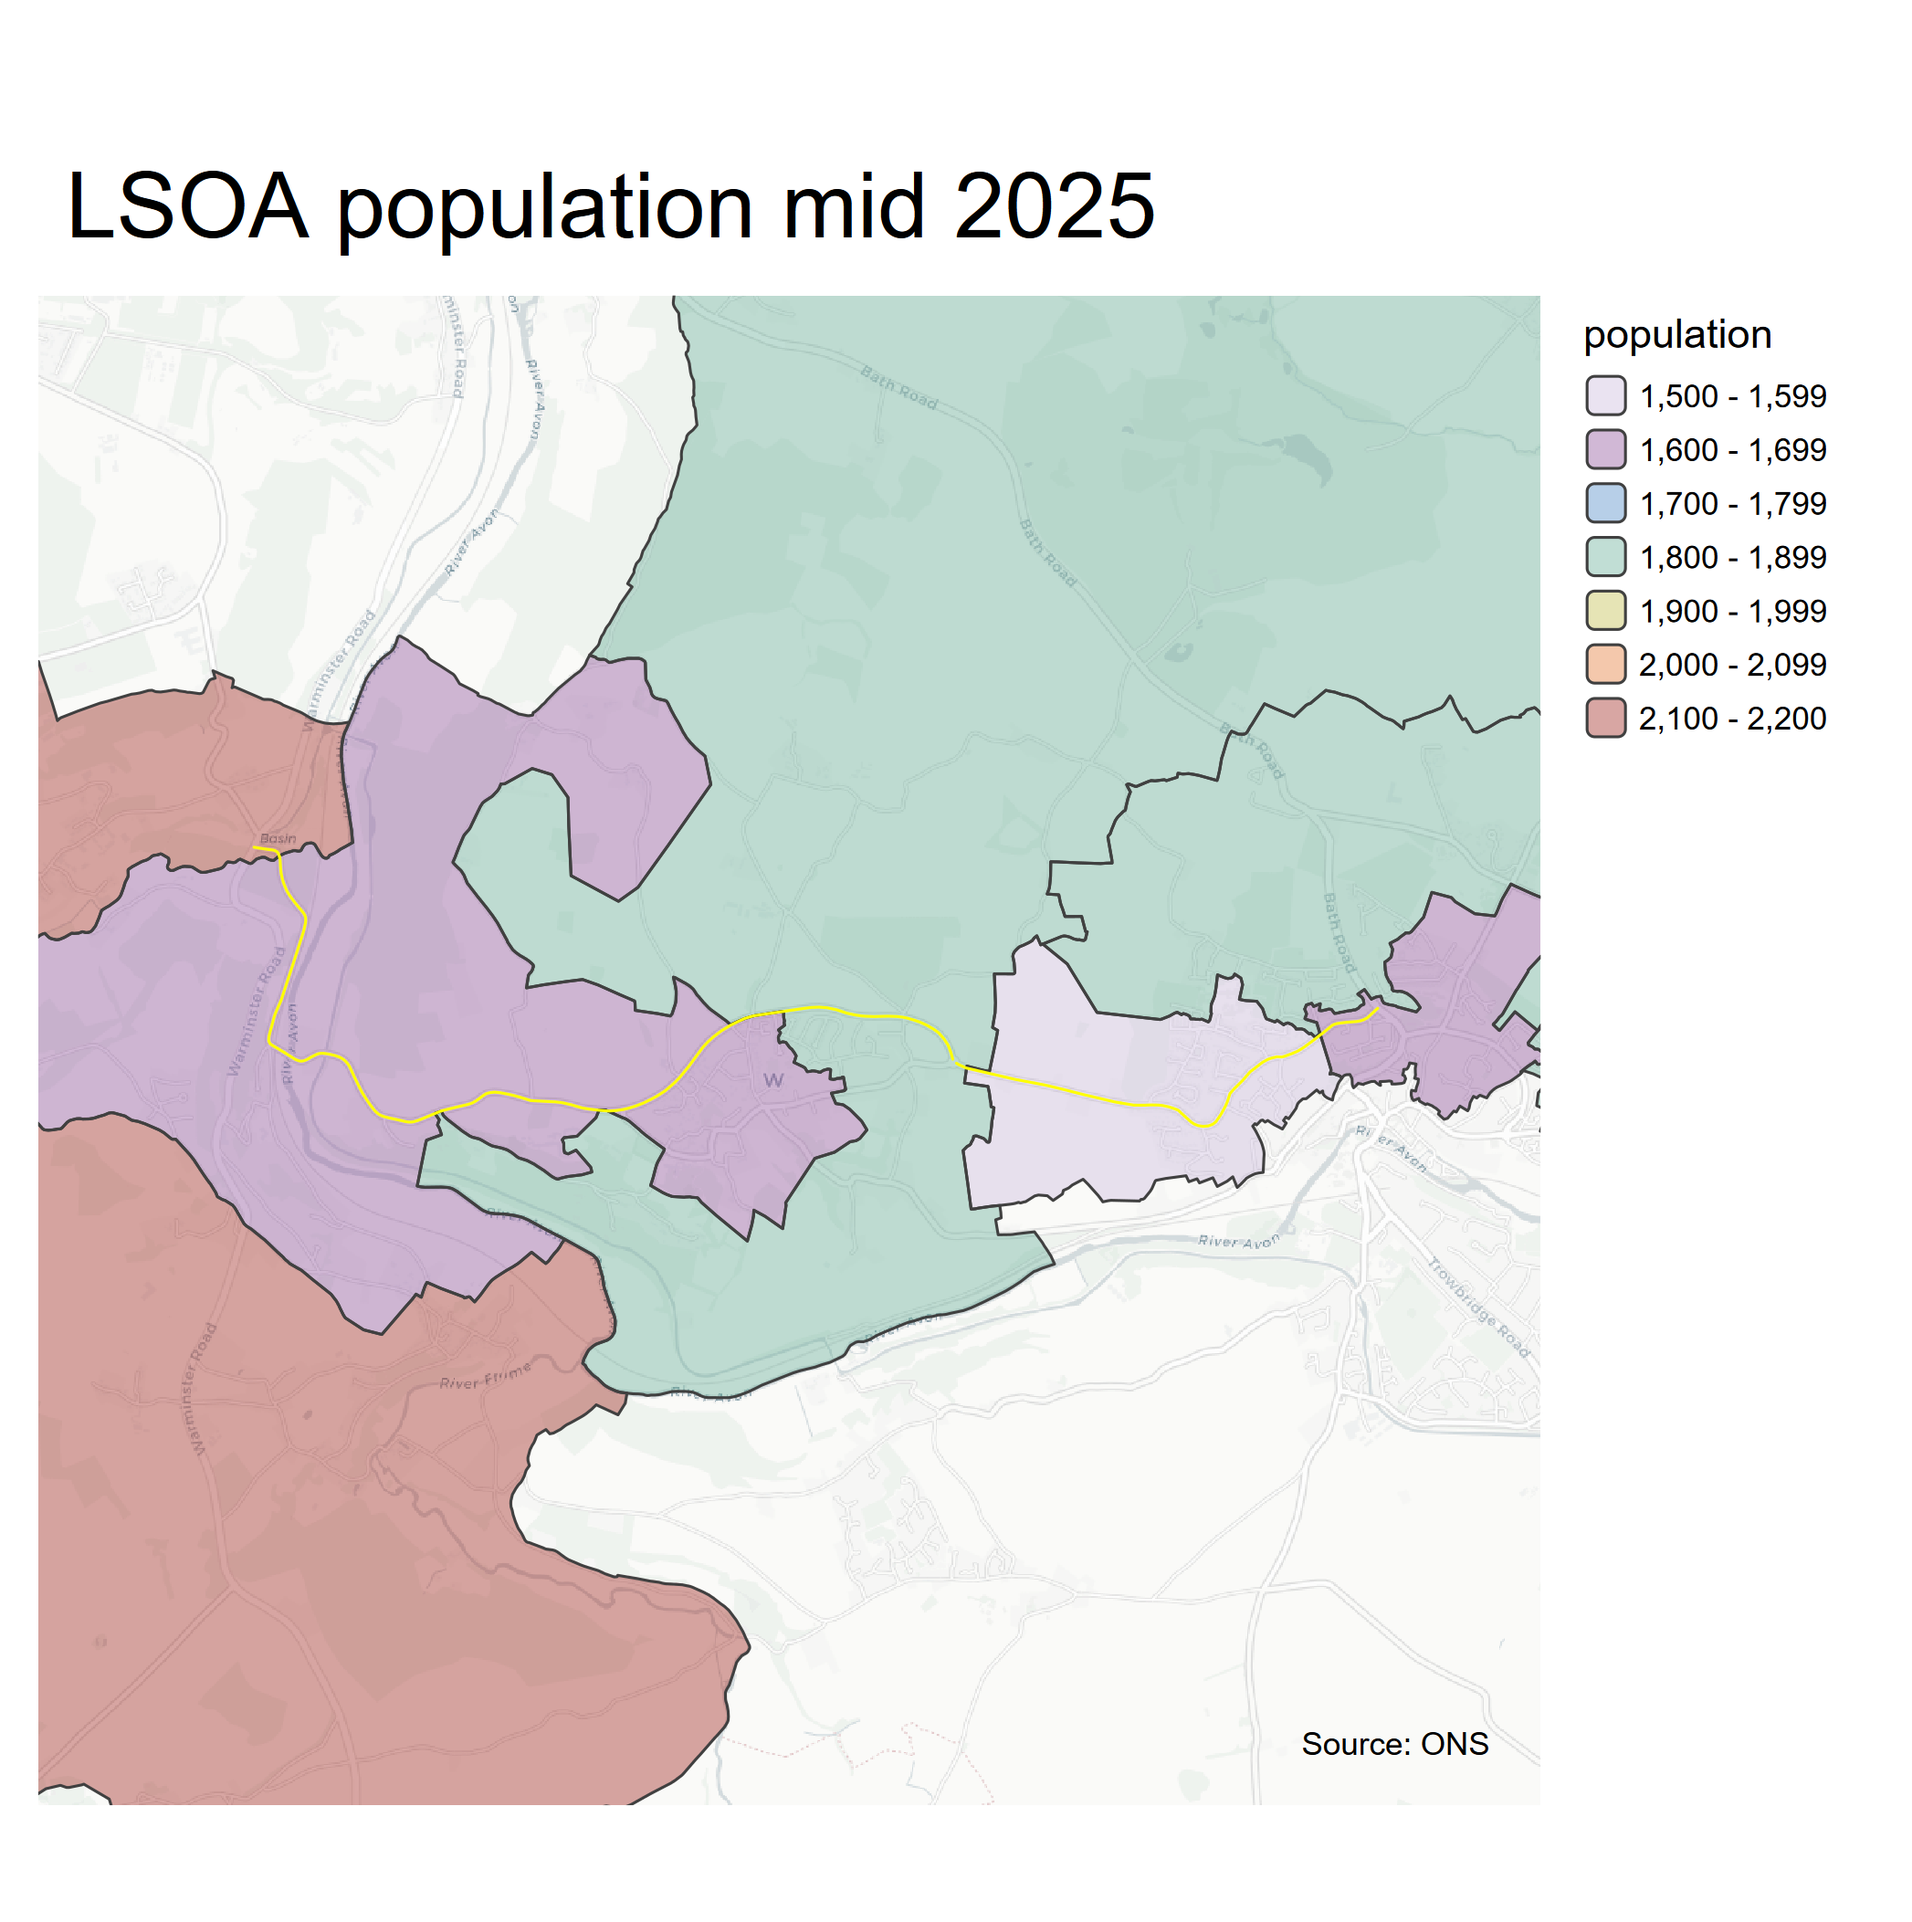
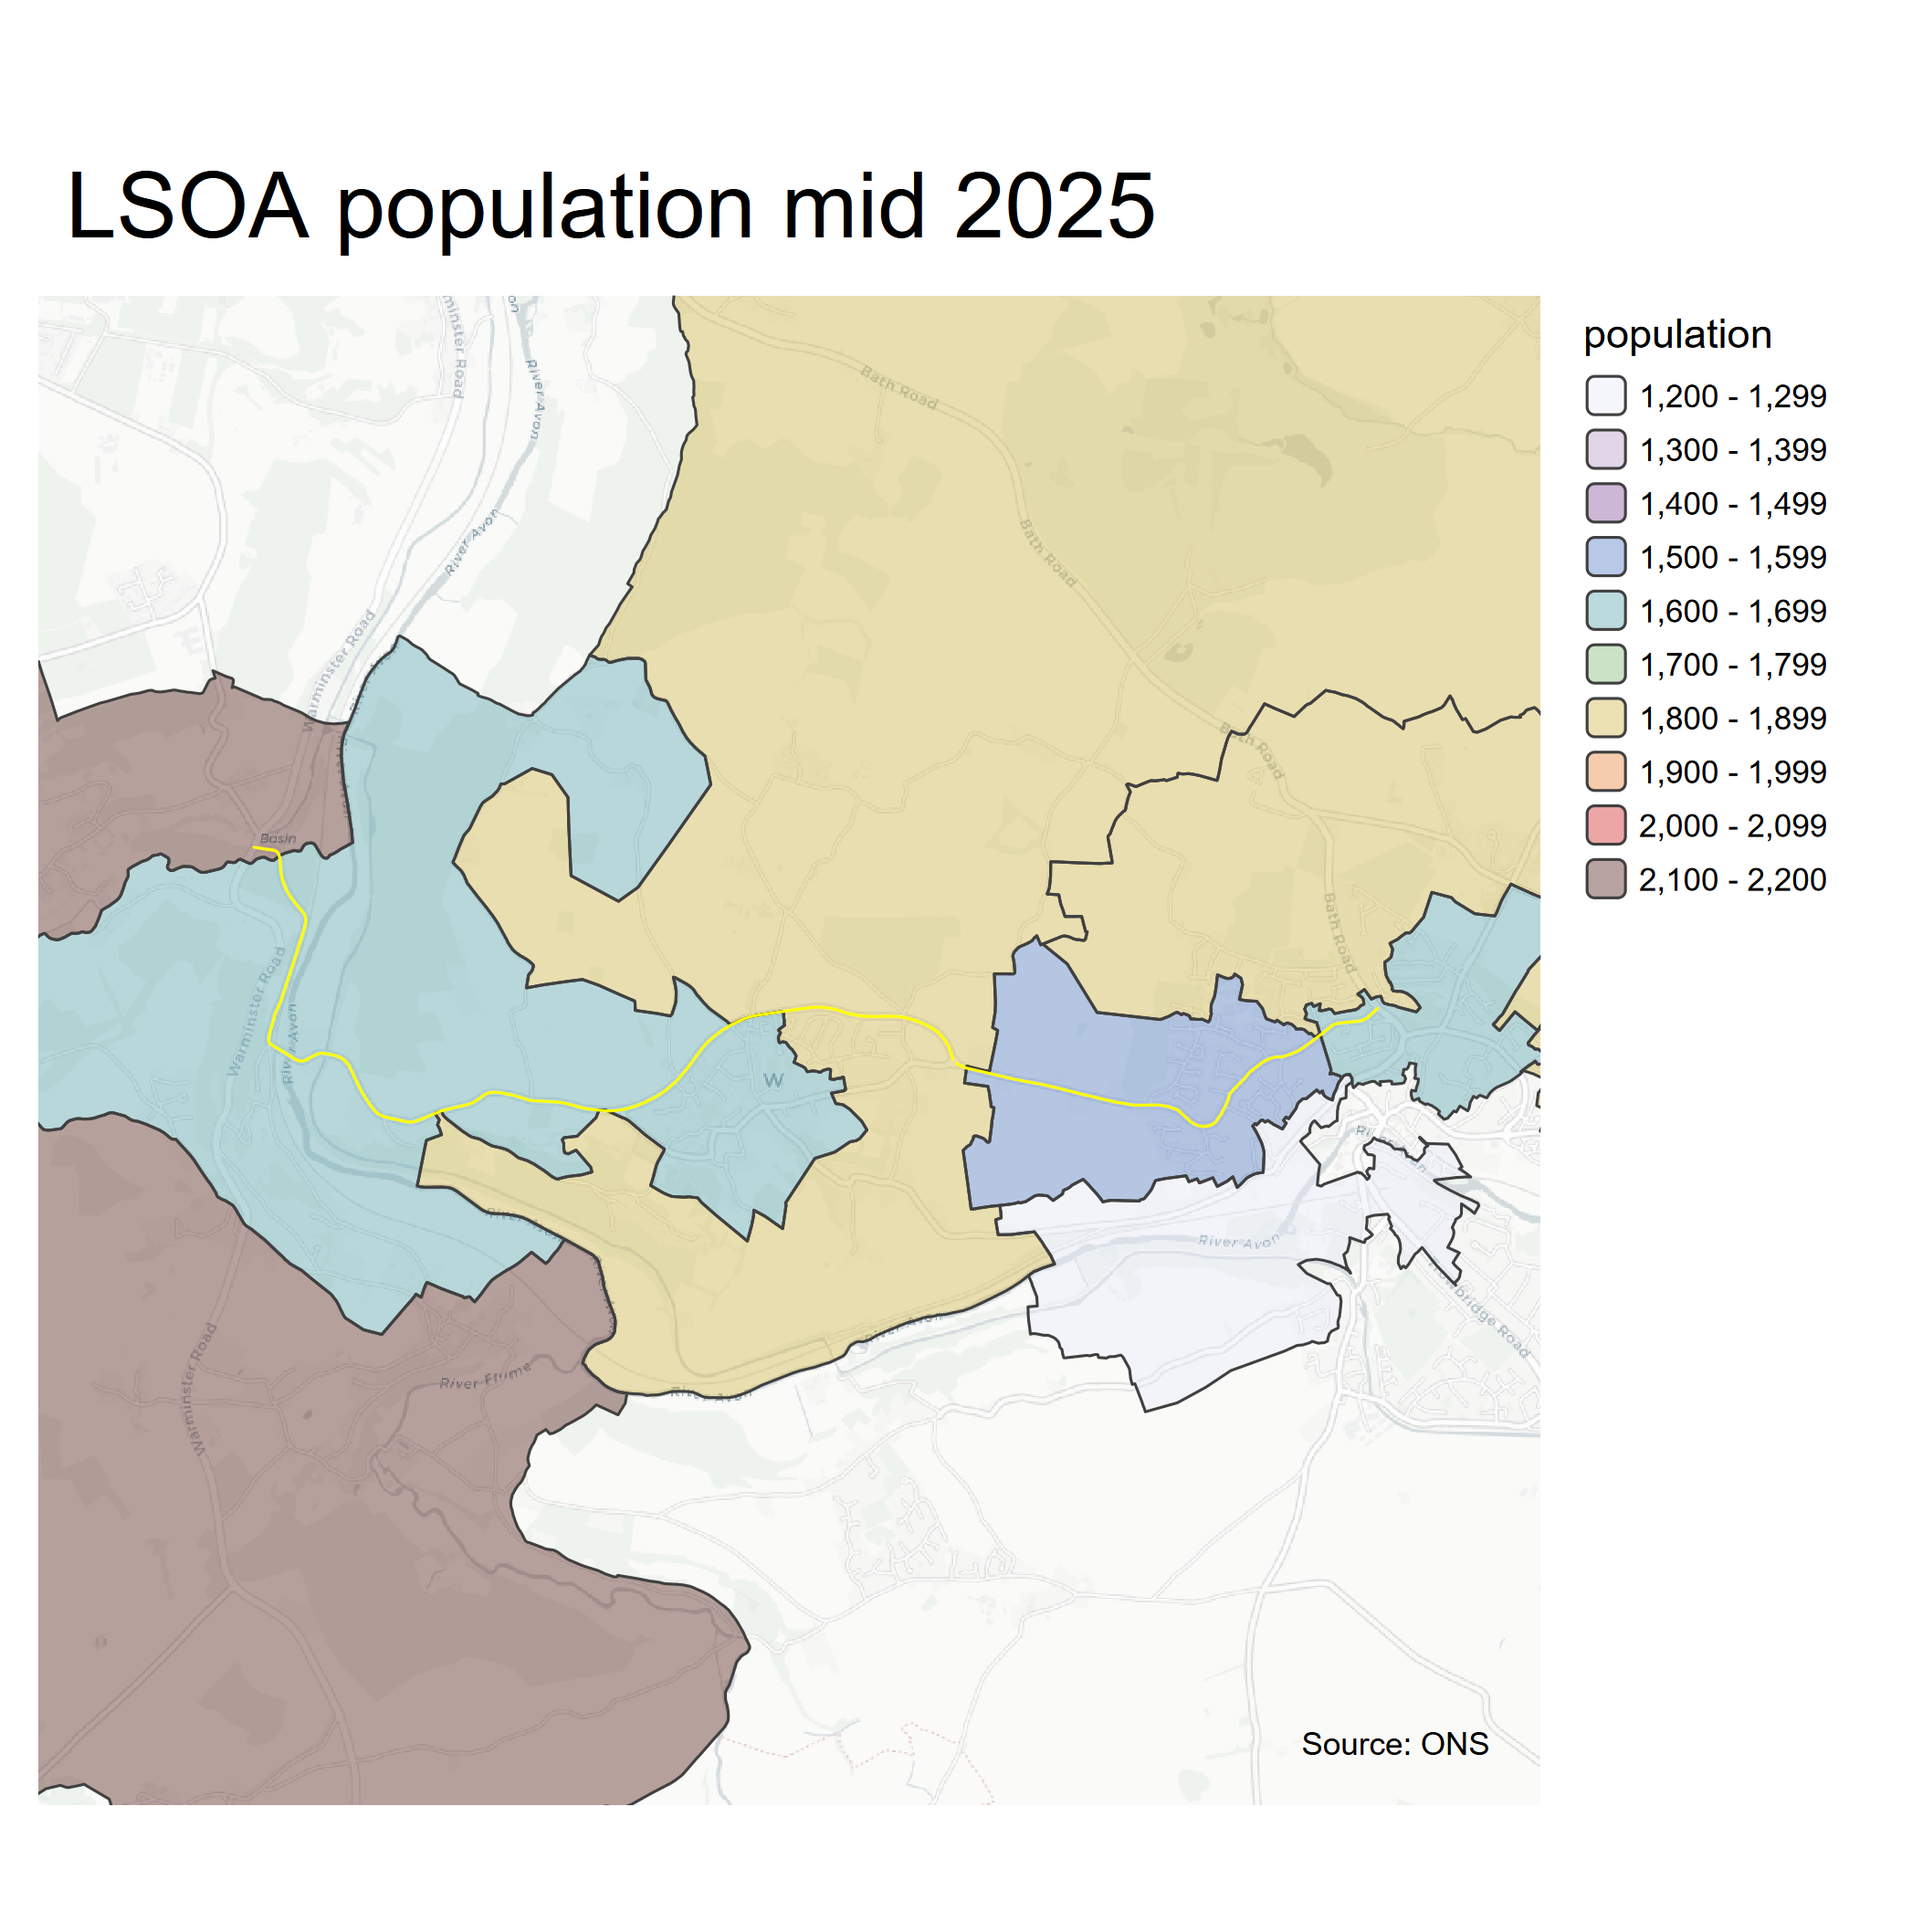
update to population section

diff --git a/docs/index.html b/docs/index.html
@@ -228,7 +228,7 @@ ul.task-list li input[type="checkbox"] {
 </section>
 <section id="population" class="level2">
 <h2 class="anchored" data-anchor-id="population">Population</h2>
-<p>It is estimated over 1400 people live within 100 metres of the B3108. 225 of these live within 100 metres of the 50mph section. <img src="plots/lsoa_pop_roadside.png" class="img-fluid"></p>
+<p>It is estimated 3478 people live within 200 metres of the B3108. 712 of these live within 200 metres from the 50mph section. <img src="plots/lsoa_pop_roadside.png" class="img-fluid"></p>
 <p>The Office for National Statistics (ONS) compiles regularly updated population data for the ‘Local Super Output Areas’ (LSOA). The plot below shows the total population for LSOA areas that intersect the B3108. <img src="plots/lsoa_pop.png" class="img-fluid"> In order to estimate the population close to the road the population was distributed over the OSM buildings shapes based on the area of the buildings. The population of each building that falls within a 100m buffer of either side of the road was summed. It is estimated that just over 1400 people live within 100 metres of the B3108, the majority along Winsley Road in Bradford on Avon.</p>
 </section>
 <section id="collision-costs" class="level2">
